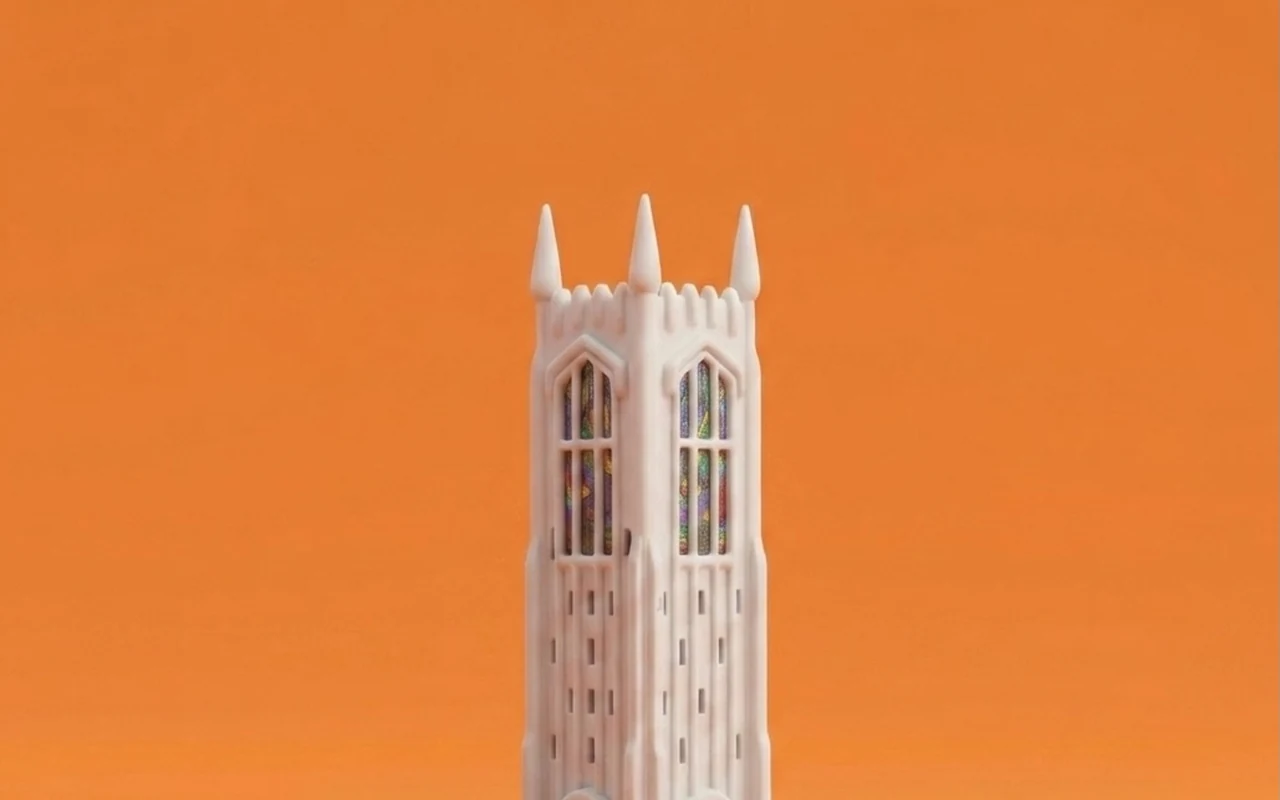
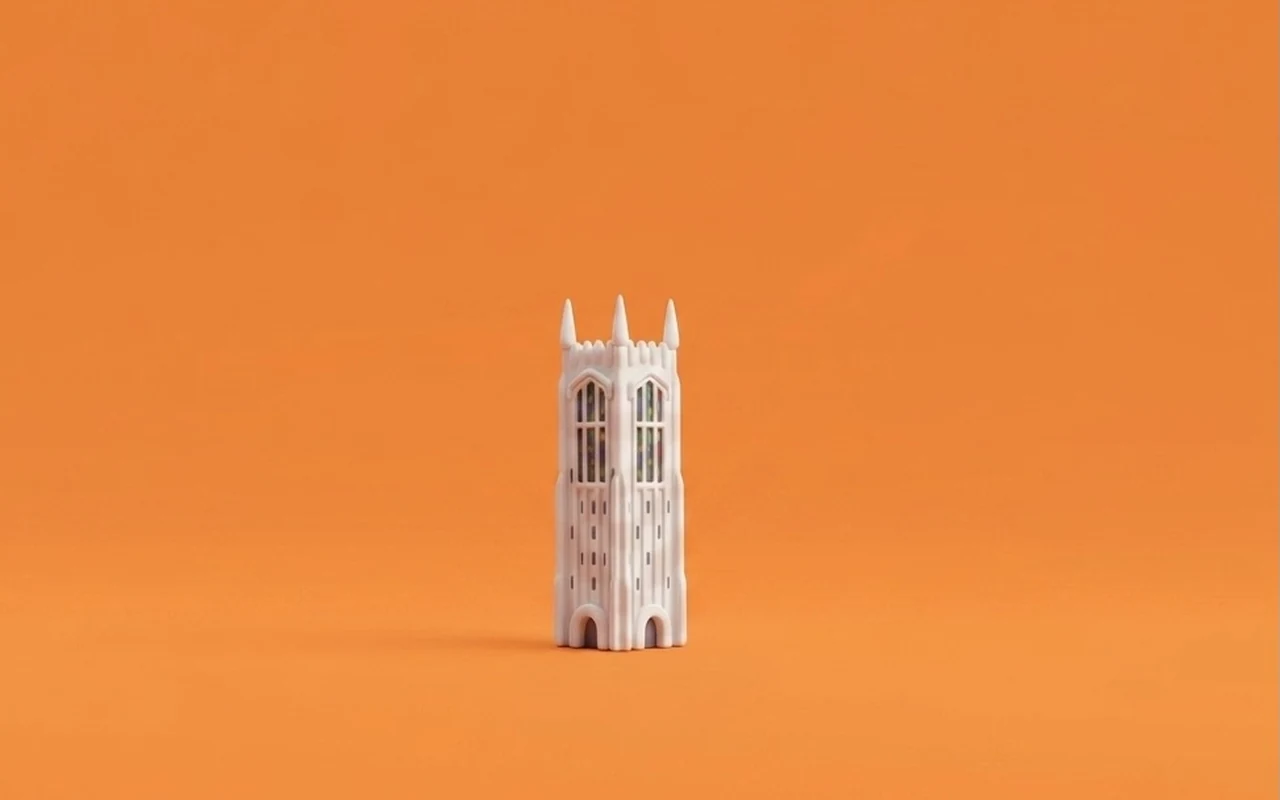
Polish FAB position, tower image, and project tags
- Wrap Download FAB in fixed positioning div that sits above the
  global Footer (bottom-28 md:bottom-24 right-6 z-[70]), matching
  the CalNat pattern
- Replace projects card image with burns-tower-2 (full tower from
  base to spires, properly centered with breathing room)
- Update project tags: drop Stakeholder Facilitation and Capital
  Planning, add Julius.AI

Changed region(s): [[0.4062, 0.25, 0.625, 1.0]]

diff --git a/components/SpaceUtilizationCaseStudy.tsx b/components/SpaceUtilizationCaseStudy.tsx
@@ -344,15 +344,17 @@ const SpaceUtilizationCaseStudy: React.FC = () => {
         Back to Archive
       </button>
 
-      {/* Download FAB — matches the rest of the portfolio */}
-      <button
-        onClick={handleDownloadPDF}
-        className="fixed bottom-8 right-8 z-[60] w-16 h-16 rounded-full flex items-center justify-center shadow-2xl transition-transform hover:scale-110 active:scale-90 group no-print"
-        style={{ backgroundColor: COLORS.teal, color: COLORS.charcoal }}
-        title="Download Case Study PDF"
-      >
-        <Download className="w-8 h-8" />
-      </button>
+      {/* Download FAB — sits above the global Footer at bottom-0 z-[100] */}
+      <div className="fixed bottom-28 md:bottom-24 right-6 z-[70] no-print">
+        <button
+          onClick={handleDownloadPDF}
+          className="w-16 h-16 rounded-full flex items-center justify-center shadow-2xl transition-transform hover:scale-110 active:scale-90 group"
+          style={{ backgroundColor: COLORS.teal, color: COLORS.charcoal }}
+          title="Download Case Study PDF"
+        >
+          <Download className="w-8 h-8" />
+        </button>
+      </div>
 
       <main className="relative z-10">
 

diff --git a/data/projects.ts b/data/projects.ts
@@ -7,7 +7,7 @@ export const PROJECTS: Project[] = [
     category: 'Consulting',
     date: '2026',
     description: 'A strategic consulting engagement that gave University of the Pacific the data it needed to launch a new medical school using existing campus capacity, without a single new building. Six semesters of utilization data, three buildings, three findings, one institutional decision.',
-    tags: ['Leadership', 'Evaluation', 'Data Analysis', 'Stakeholder Facilitation', 'Capital Planning'],
+    tags: ['Leadership', 'Evaluation', 'Data Analysis', 'Julius.AI'],
     image: '/case-study/space-utilization/projects-card-tower.webp',
     imagePosition: 'center'
   },
